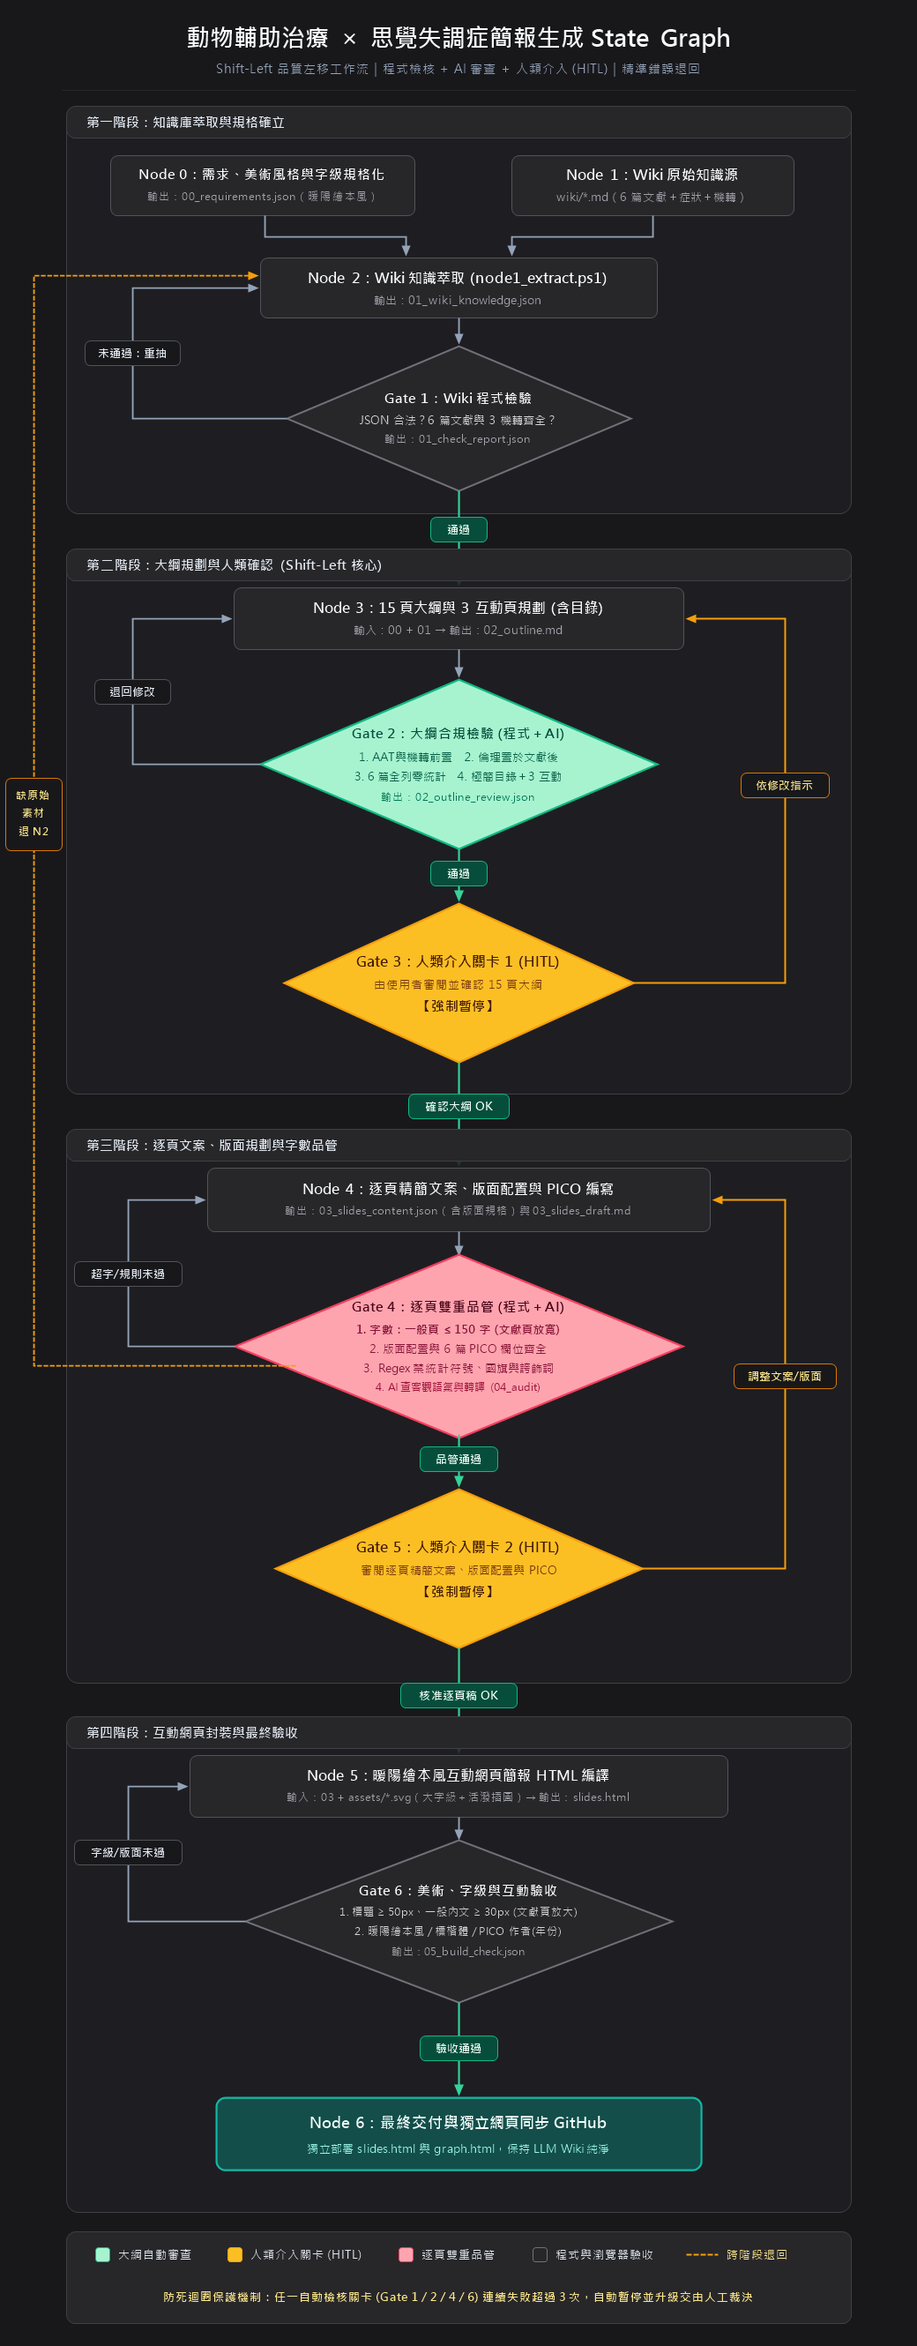
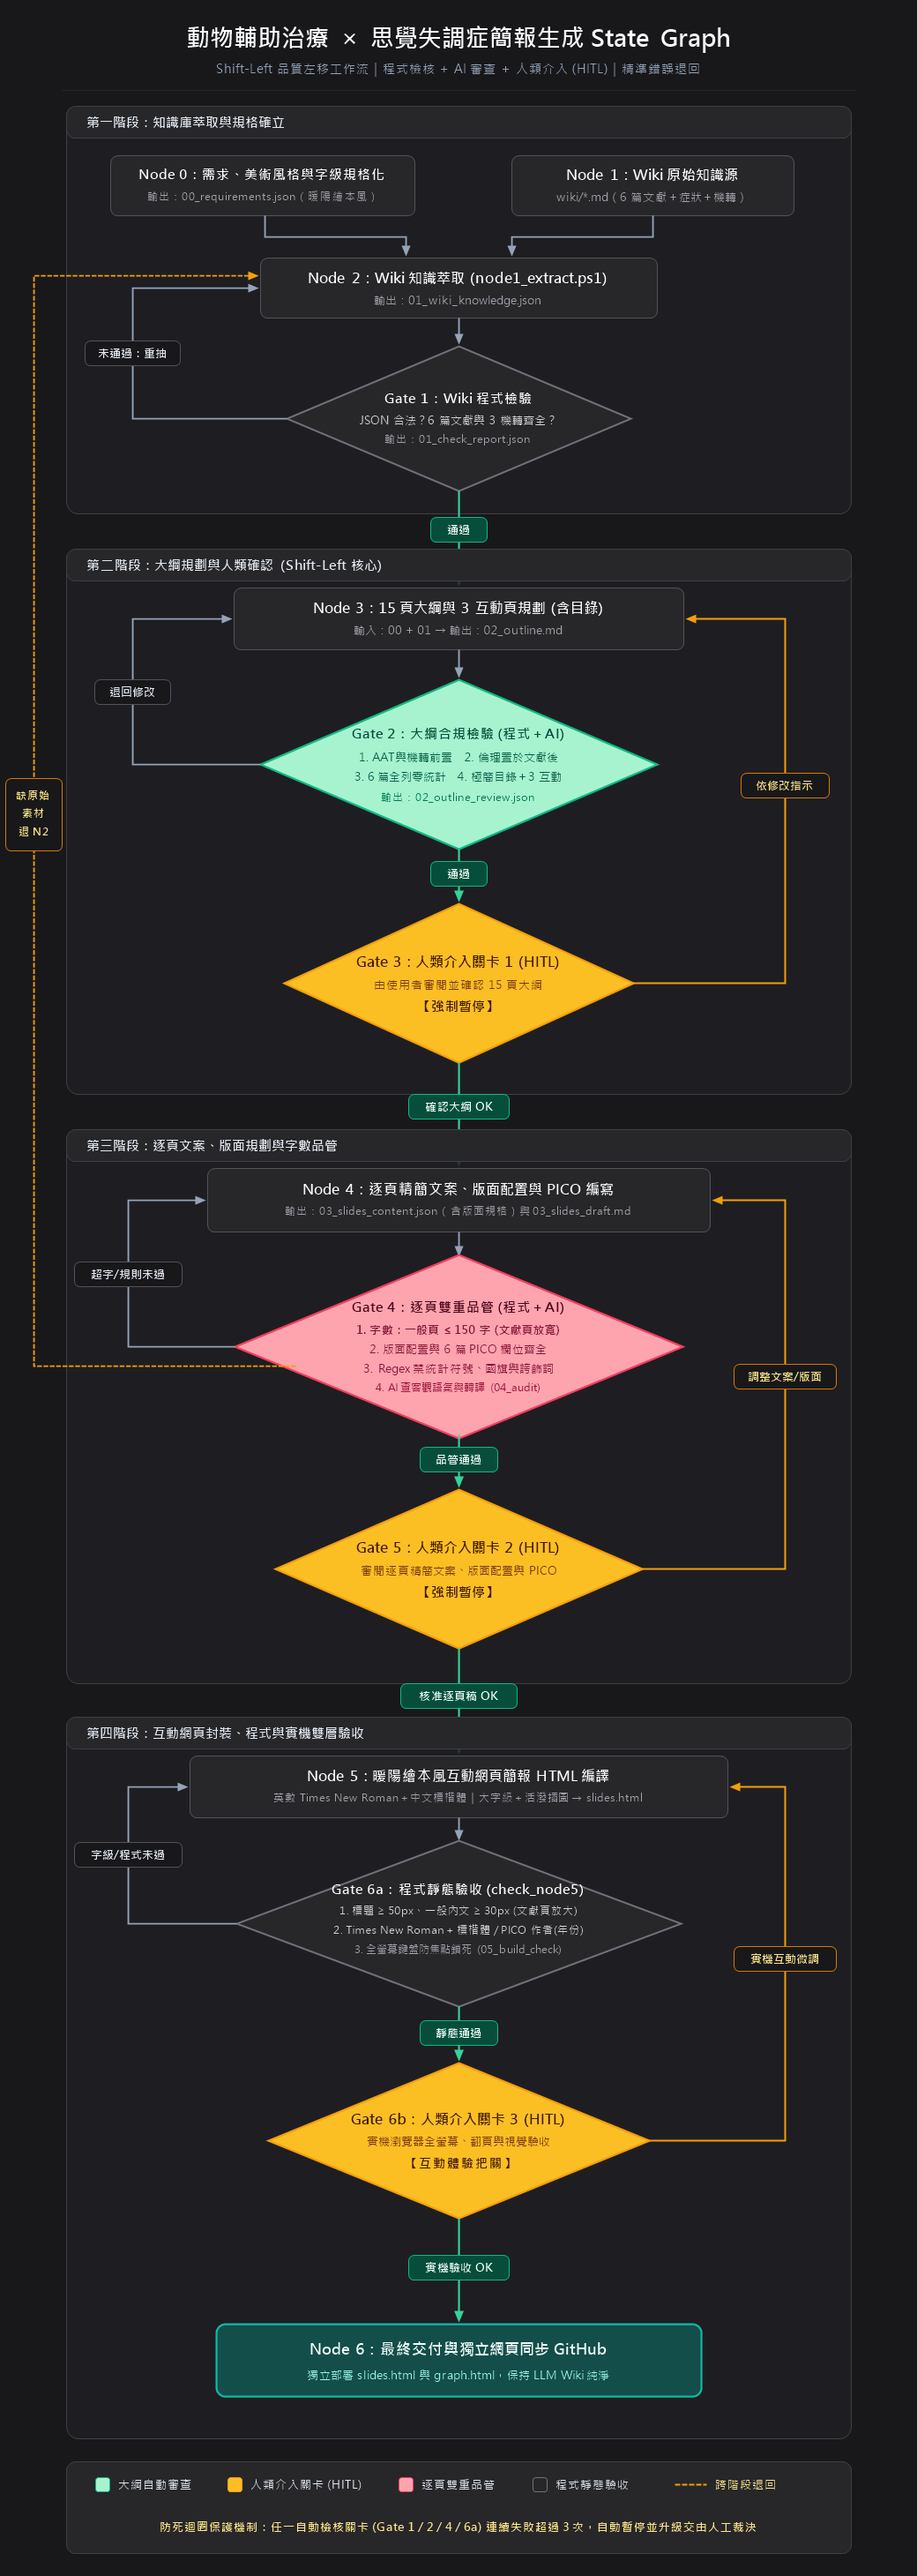
fix: fullscreen right-arrow focus bug, use Times New Roman for English/digits, and add Gate 6b live HITL QA to State Graph

diff --git a/slides.html b/slides.html
@@ -5,9 +5,9 @@
   <meta name="viewport" content="width=device-width, initial-scale=1.0">
   <title>動物輔助治療如何幫助思覺失調個案找回生活動機與人際連結</title>
   <style>
-    /* 全域標楷體 */
+    /* 英數採用 Times New Roman，中文回退至標楷體 */
     *, *::before, *::after, html, body, h1, h2, h3, h4, p, span, div, a, button, li {
-      font-family: "標楷體", "BiauKai", "DFKai-SB", "TW-Kai", "KaiTi", serif !important;
+      font-family: "Times New Roman", "標楷體", "BiauKai", "DFKai-SB", "TW-Kai", "KaiTi", serif !important;
       box-sizing: border-box;
       margin: 0;
       padding: 0;
@@ -1196,6 +1196,12 @@
       dotsContainer.appendChild(dot);
     }
 
+    function clearFocus() {
+      if (document.activeElement && typeof document.activeElement.blur === 'function') {
+        document.activeElement.blur();
+      }
+    }
+
     function goToSlide(n) {
       if (n < 1 || n > totalSlides) return;
       currentSlide = n;
@@ -1207,28 +1213,50 @@
       document.getElementById('prevBtn').disabled = (currentSlide === 1);
       document.getElementById('nextBtn').disabled = (currentSlide === totalSlides);
       document.querySelectorAll('.dot').forEach((d, i) => d.classList.toggle('active', i + 1 === currentSlide));
+      clearFocus();
       window.scrollTo({ top: 0, behavior: 'smooth' });
     }
 
     function nextSlide() { if (currentSlide < totalSlides) goToSlide(currentSlide + 1); }
     function prevSlide() { if (currentSlide > 1) goToSlide(currentSlide - 1); }
 
+    /* 全螢幕與任何點擊後，左右方向鍵與 PageUp/PageDown 永遠有效 */
     document.addEventListener('keydown', (e) => {
-      if (e.key === 'ArrowRight' || e.key === 'PageDown' || e.key === ' ') {
-        if (document.activeElement.tagName !== 'BUTTON') { e.preventDefault(); nextSlide(); }
+      if (e.key === 'ArrowRight' || e.key === 'PageDown') {
+        e.preventDefault();
+        nextSlide();
       } else if (e.key === 'ArrowLeft' || e.key === 'PageUp') {
+        e.preventDefault();
         prevSlide();
-      } else if (e.key === 'Home') { goToSlide(1); }
-      else if (e.key === 'End') { goToSlide(totalSlides); }
+      } else if (e.key === ' ') {
+        if (!document.activeElement || document.activeElement.tagName !== 'BUTTON') {
+          e.preventDefault();
+          nextSlide();
+        }
+      } else if (e.key === 'Home') {
+        e.preventDefault();
+        goToSlide(1);
+      } else if (e.key === 'End') {
+        e.preventDefault();
+        goToSlide(totalSlides);
+      }
     });
 
     function toggleFullScreen() {
+      clearFocus();
       if (!document.fullscreenElement) {
-        if (document.documentElement.requestFullscreen) document.documentElement.requestFullscreen();
+        const el = document.documentElement;
+        if (el.requestFullscreen) {
+          el.requestFullscreen().then(clearFocus).catch(() => {});
+        }
       } else {
-        if (document.exitFullscreen) document.exitFullscreen();
+        if (document.exitFullscreen) {
+          document.exitFullscreen().then(clearFocus).catch(() => {});
+        }
       }
     }
+
+    document.addEventListener('fullscreenchange', clearFocus);
 
     function toggleMythCard(id) {
       const el = document.getElementById(id);
